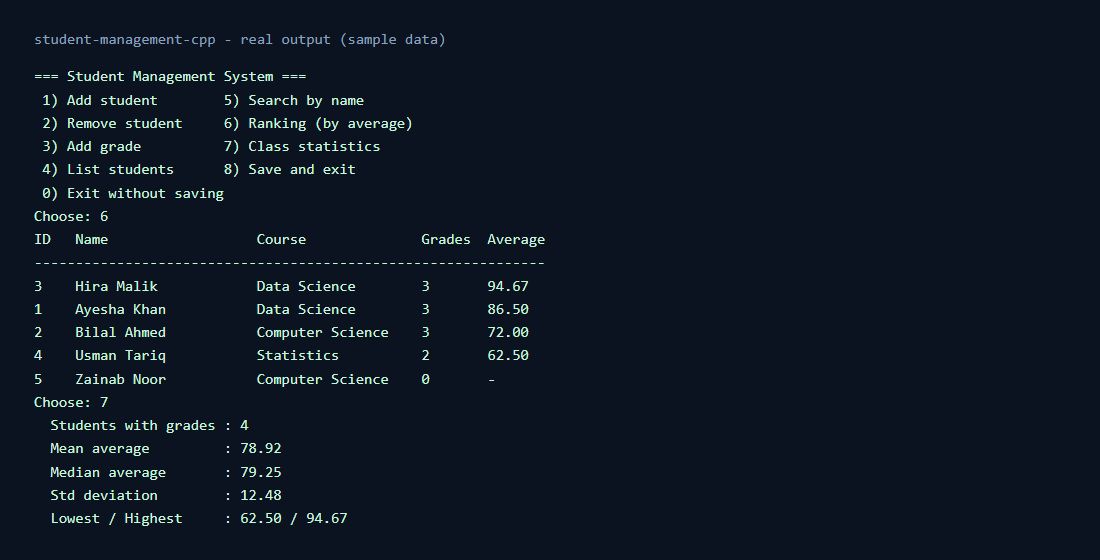
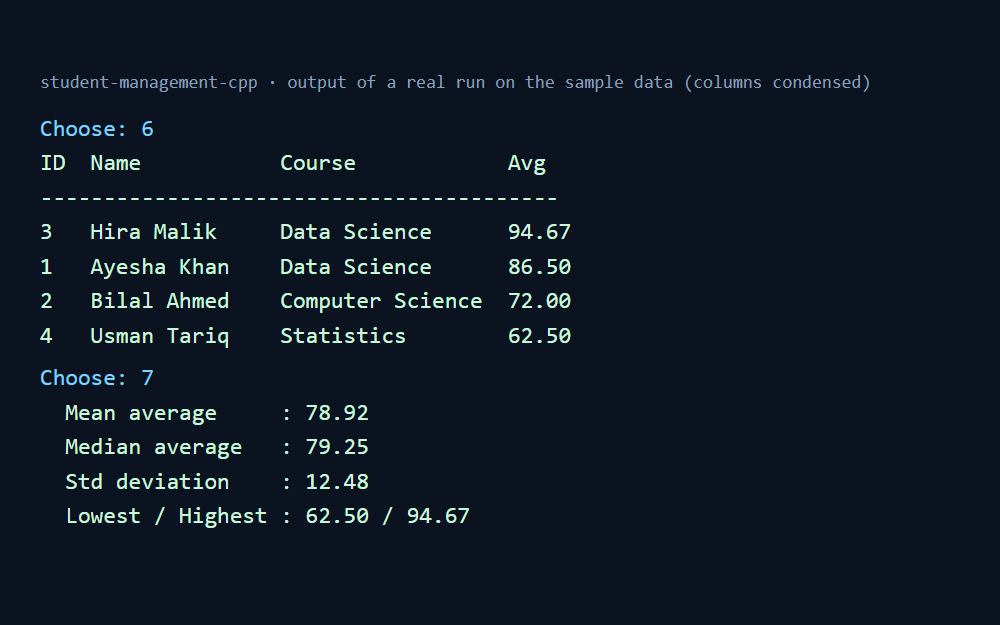
Use verbatim output screenshots

diff --git a/README.md b/README.md
@@ -13,7 +13,7 @@ object-oriented structure and dependency-free unit tests.
 ## Screenshot
 ![Example session: ranking and class statistics](docs/screenshots/example-session.png)
 
-_Real output of the application running on `data/sample_students.csv` (terminal text rendered as an image)._
+_Output of a real run on `data/sample_students.csv` (terminal text rendered as an image; table columns condensed)._
 
 ## Project structure
 ```
